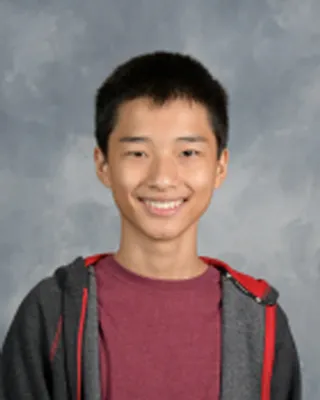
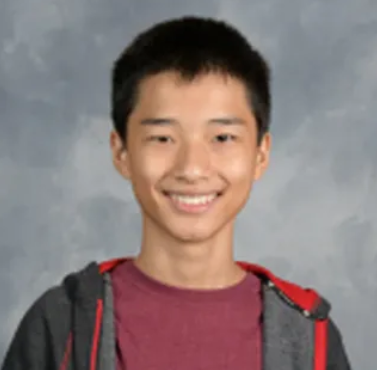
fixed redirects and touched up website

diff --git a/static/about.html b/static/about.html
@@ -57,11 +57,13 @@
         </p>
         <p class="h3">Geoffrey Wu</p>
         <div class="row mb-3 mb-lg-4">
-            <img class="col-12 col-lg-3" src="/geoffrey.png">
+            <img class="col-12 col-lg-3" src="geoffrey.jpg">
             <div class="col-12 col-lg-9">
                 Geoffrey Wu is the Head mathematics instructor and a space science instructor.
-                He placed 2nd overall in the 2021 National Science Bowl and top 16 in the 2020 National Science Bowl Competition.
-                He is an IOAA Gold Medalist and 3-time USAMO qualifier, in addition to placing 2nd in the 2017 RAYTHEON
+                Currently, he is studying computer science and applied mathematics at Columbia University.
+                He placed 2nd overall in the 2021 National Science Bowl and top 16 in the 2020 National Science Bowl Competition,
+                and he placed in the top two at both 2020 LOST and 2021 LOST.
+                He is an IOAA Gold Medalist and 3-time USAMO qualifier in addition to placing 2nd in the 2017 RAYTHEON
                 Mathcounts National Competition.
                 Geoffrey has also qualified for the USA Physics Olympiad 2 times, including earning a silver medal.
             </div>
@@ -69,9 +71,11 @@
 
         <p class="h3">Bill Zhao</p>
         <div class="row mb-3 mb-lg-4">
-            <img class="col-12 col-lg-3" src="/bill.png">
+            <img class="col-12 col-lg-3" src="bill.png">
             <div class="col-12 col-lg-9">
-                Bill Zhao is the lead instructor for chemistry and one of the earth science instructors and placed 4th overall in the 2021 National Science Bowl. He is studying physics, chemistry, and computer science at the University of Florida.
+                Bill Zhao is the Head Chemistry instructor and one of the Earth Science instructors.
+                He placed 4th overall in the 2021 National Science Bowl.
+                He is studying physics, chemistry, and computer science at the University of Florida.
                 He is a USNCO study camp qualifier, USAPhO qualifier, and an AIME qualifier.
                 Bill also has won many prizes at buzzing competitions including LOST and NHSST.
                 He has also playtested and written questions for many online tournaments.
@@ -80,7 +84,7 @@
 
         <p class="h3">Rohan Shelke</p>
         <div class="row mb-3 mb-lg-4">
-            <img class="col-12 col-lg-3" src="/rohan.png">
+            <img class="col-12 col-lg-3" src="rohan.png">
             <div class="col-12 col-lg-9">
                 Rohan Shelke is the Head Biology Instructor and one of the Earth Science instructors. He is currently
                 studying Molecular and Cell Biology and Business at UC Berkeley, and has competed in Science Bowl for over 6 years. He
@@ -92,9 +96,9 @@
         </div>
         <p class="h3">Sanjay Suresh</p>
         <div class="row">
-            <img class="col-12 col-lg-3" src="/sanjay.png">
+            <img class="col-12 col-lg-3" src="sanjay.png">
             <div class="col-12 col-lg-9">
-                Sanjay is the head physics instructor and one of the Space Science instructors for Summit Scibowl.
+                Sanjay is the Head Physics instructor and one of the Space Science instructors for Summit Scibowl.
                 Sanjay Suresh is a senior in high school and was the captain of the 18th place team at the 2021 National Science Bowl.
                 He will be studying Math, Physics, and Computer Science in the fall at UW-Madison and has competed in Science Bowl for 5 years.
                 He has won numerous prizes in buzzing competitions including placing 4th at the 2021 MIT Invitational Tournament, 5th at LOST 2021, 5th Individually, and 3rd as a team in the National High School Science Tournament.

diff --git a/static/faq.html b/static/faq.html
@@ -62,10 +62,6 @@
         <p>
             The amount of improvement you make will be directly proportional to the amount of time you put in. If a student does not attend lectures and review their notes, it is unlikely that they will improve at all. However, if a student attends all the lectures, reviews the notes, and studies from the supplemental resources, they can expect to make large improvements. The summer course is designed to help students to answer approximately 80-90% of regional questions in their subject. These courses will also help students prepare for both Middle School regionals and nationals.
         </p>
-        <p class="h5 text-warning">Are there course discounts?</p>
-        <p>
-            Yes! Email us for more details at <span class="text-info">summitscibowl@gmail.com</span>.
-        </p>
         <p class="h5 text-warning">Can middle schoolers take our classes?</p>
         <p>
             Yes! These classes are suitable for both high school and advanced middle school students above the age of 13.

diff --git a/server.js b/server.js
@@ -19,7 +19,7 @@ app.use((req, res) => {
         res.sendFile(__dirname + '/static/' + req.url);
     } else if (req.url.substr(-4) === '.css') {
         res.sendFile(__dirname + '/static/' + req.url);
-    } else if (req.url.substr(-4) === '.png') {
+    } else if (req.url.substr(-4) === '.png' || req.url.substr(-4) === '.jpg') {
         res.sendFile(__dirname + '/static/images/' + req.url);
     } else if (req.url.substr(-5) !== '.html') { // remove '.html' from the end of the url
         res.sendFile(__dirname + '/static/' + req.url + '.html');

diff --git a/static/script.js b/static/script.js
@@ -1,3 +1,7 @@
 if (document.URL.substring(0, 35) === 'https://summitscibowl.herokuapp.com') {
-    window.location.href = 'http://www.summitscibowl.com' + document.URL.substring(36);
+    window.location.href = 'https://www.summitscibowl.com' + document.URL.substring(35);
+}
+
+if (document.URL.substring(0, 39) === 'https://www.summitscibowl.herokuapp.com') {
+    window.location.href = 'https://www.summitscibowl.com' + document.URL.substring(39);
 }
